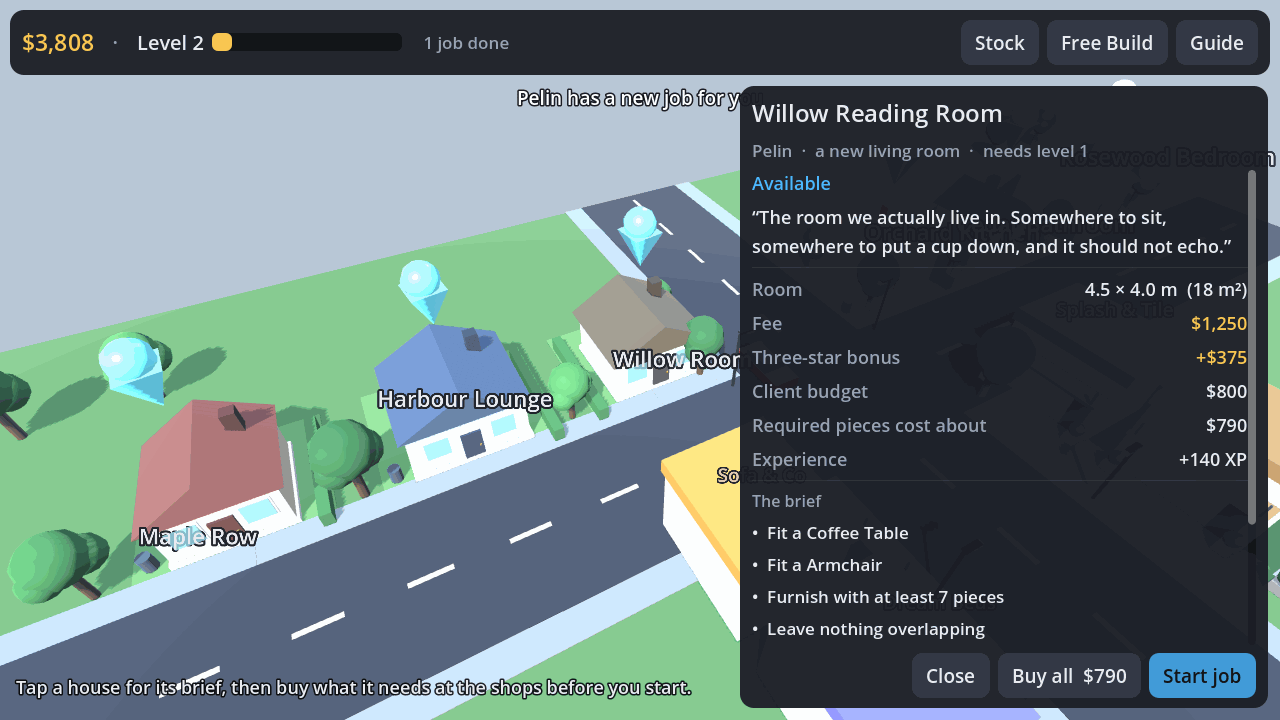
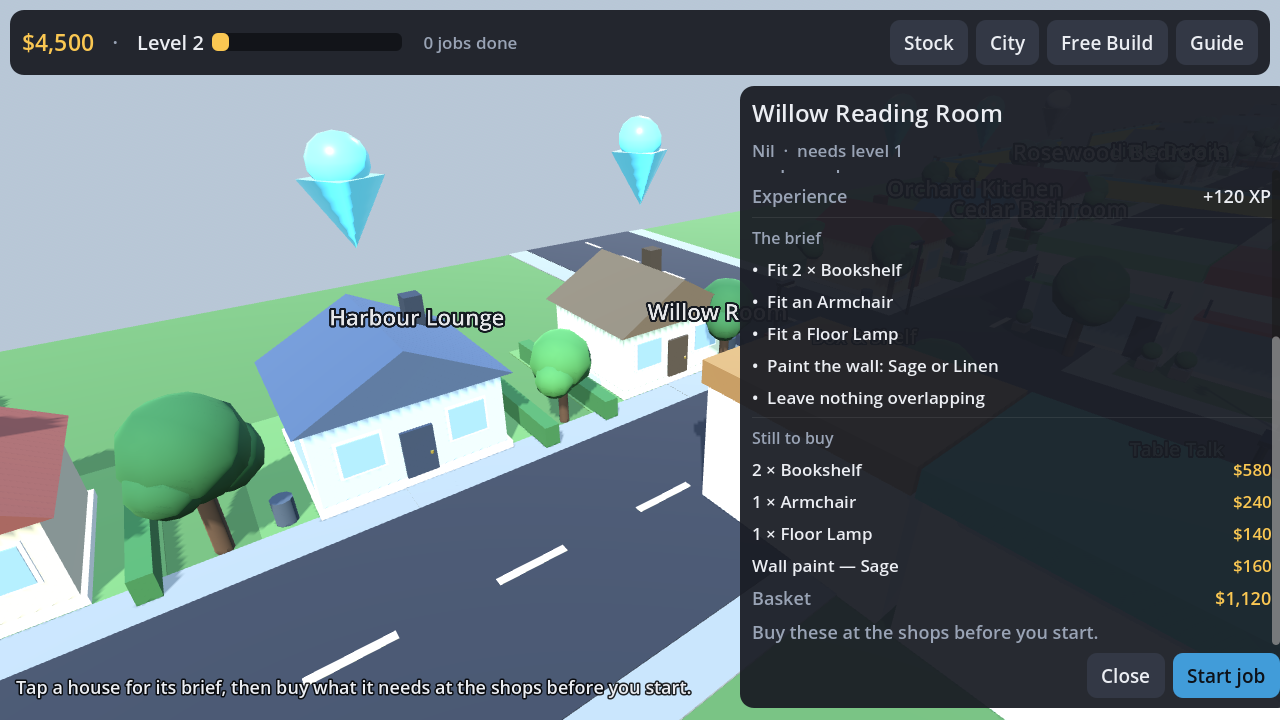
Take the buy-all button off the brief sheet
The brief listed everything a job still needed and then offered to buy the
lot in one tap, which skipped the shops entirely — the map's ten counters,
the level gates on them and the quarter-exclusive stock all went past
unseen on the way to Start job.

The list stays, priced item by item with the basket total under it, but it
is a shopping list now rather than a basket: each piece is bought at the
counter that stocks it. The sheet's actions are down to Close and Start job.

The smoke test opens a brief and checks it names what is still to buy, keeps
Start job, and offers nothing that fills the basket.

Claude-Session: https://claude.ai/code/session_01YMH97cUf6dq31iG21oXLDc

diff --git a/README.md b/README.md
@@ -21,7 +21,7 @@ the catalogue, lit and furnished by the same code the game runs on.
 
 | Reading a brief | Buying at a shop |
 |---|---|
-| ![A client's brief with its shopping list and a buy-all button](docs/screenshot-brief.png) | ![The bed shop counter with buy buttons and level gates](docs/screenshot-shop.png) |
+| ![A client's brief with the list of what is still to buy and the basket total](docs/screenshot-brief.png) | ![The bed shop counter with buy buttons and level gates](docs/screenshot-shop.png) |
 
 | Your stock | Fitting the room out |
 |---|---|
@@ -148,9 +148,10 @@ stranded with no money and no way out.
 ### A job
 
 The briefing sheet gives you the client's words, the room size, the fee, their budget and
-the experience on offer. Under the brief it lists exactly what you are still missing, and
-the **Buy all** button next to *Start job* fills the whole basket in one tap — including any
-paint the brief calls for.
+the experience on offer. Under the brief it lists exactly what you are still missing, item
+by item with a price against each and the basket total at the bottom. It is a shopping list,
+not a basket: you take it round the shops and buy each piece at the counter that stocks it,
+which is where knowing your way around the city starts to pay.
 
 Take the job and you land in the room with the brief checklist on the right; it re-ticks
 itself live as you work. Once every line is ticked, **Hand over** collects the fee — and the
@@ -466,9 +467,10 @@ physically sane, that wall snap lands flush and stacking finds the right height,
 keep the room and the warehouse in step, that a properly arranged room really does reach
 three stars, that a generated repeat contract can be shopped for and finished, and that the
 tray starts closed and can tell a drag along the row from a tap on a piece, that the
-app opens on the title screen with its buttons wired to the right places, and that both
+app opens on the title screen with its buttons wired to the right places, that both
 changes of screen are covered end to end by a loading screen whose bar runs from one end to
-the other. It reports everything that does not hold and exits non-zero.
+the other, and that a brief lists what is still to buy without offering to buy it for you.
+It reports everything that does not hold and exits non-zero.
 
 ## Building it yourself
 
